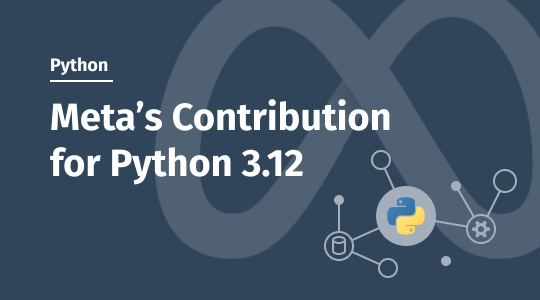
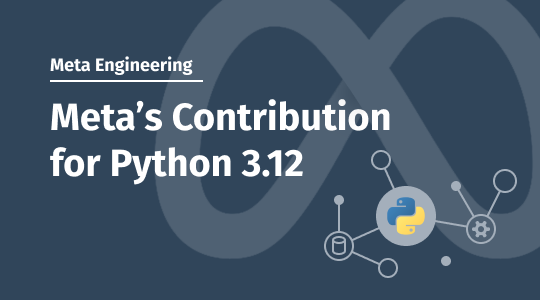
feat: 디자인 변경  - Pretendard 폰트 적용  - Meta Engineering 썸네일 변경

Changed region(s): [[0.0889, 0.18, 0.3556, 0.3]]

diff --git a/_includes/head.html b/_includes/head.html
@@ -19,9 +19,8 @@
 
   <link rel="preconnect" href="https://fonts.googleapis.com">
   <link rel="preconnect" href="https://fonts.gstatic.com" crossorigin>
-  <link href="https://fonts.googleapis.com/css2?family=Noto+Sans+KR:wght@400;800&family=Open+Sans:wght@300;600;800&display=swap" rel="stylesheet">
-  <link href="https://fonts.googleapis.com/css2?family=Lora:ital@1&display=swap" rel="stylesheet">
-  <script src="https://use.fontawesome.com/releases/v5.15.3/js/all.js" crossorigin="anonymous"></script>
+  <link rel="stylesheet" href="https://fonts.googleapis.com/css2?family=Lora:ital@1&display=swap">
+  <link rel="stylesheet" as="style" crossorigin href="https://cdn.jsdelivr.net/gh/orioncactus/pretendard@v1.3.9/dist/web/static/pretendard.min.css" />
 
   <link rel="stylesheet" href="{{"/assets/main.css" | relative_url }}">
   <link rel="canonical" href="{{ page.url | replace:'index.html','' | absolute_url }}">

diff --git a/_includes/scripts.html b/_includes/scripts.html
@@ -1,5 +1,6 @@
 <script src="https://code.jquery.com/jquery-3.5.1.min.js"></script>
 <script src="https://cdn.jsdelivr.net/npm/bootstrap@4.6.0/dist/js/bootstrap.bundle.min.js"></script>
+<script src="https://use.fontawesome.com/releases/v5.15.3/js/all.js" crossorigin="anonymous"></script>
 <script src="{{"/assets/vendor/startbootstrap-clean-blog/js/scripts.js" | relative_url }}"></script>
 
 <script src="{{"/assets/scripts.js" | relative_url }}"></script>

diff --git a/docs/_posts/meta/2023-11-26-meta-dismissing-python-gc.md b/docs/_posts/meta/2023-11-26-meta-dismissing-python-gc.md
@@ -1,7 +1,7 @@
 ---
 layout: post
 title: "[번역] 인스타그램에서 파이썬 GC 비활성화"
-excerpt: 인스타그램은 사용하지 않는 데이터를 메모리 공간에서 다시 회수하는 기능인 파이썬 가비지 컬렉션(GC)을 걷어내고서 약 10%의 효율성 향상을 이끌어냈습니다. GC를 비활성화함으로서 메모리 사용량을 줄이고 CPU LLC 캐시 히트율을 증가시킬 수 있었습니다.
+excerpt: 인스타그램은 사용하지 않는 데이터를 메모리 공간에서 다시 회수하는 기능인 파이썬 가비지 컬렉션(GC)을 걷어내고서 약 10%의 효율성 향상을 끌어냈습니다. 간단히 말해서 GC를 비활성화함으로써 메모리 사용량을 줄이고 CPU LLC 캐시 적중률을 증가시킬 수 있었습니다.
 category: meta engineering
 tags:
   - python
@@ -9,6 +9,10 @@ tags:
   - instagram
 thumbnail: "/img/thumbnails/meta-dismissing-python-gc.png"
 ---
+
+> 해당 포스트는 Instagram Engineering 블로그의 [Dismissing Python Garbage Collection at Instagram](https://medium.com/instagram-engineering/dismissing-python-garbage-collection-at-instagram-4dca40b29172) 포스트를 번역한 글입니다.
+> 
+> 게시일: 2017.01.18
 
 # 인스타그램에서 파이썬 GC 비활성화
 
@@ -226,8 +230,6 @@ CPU 캐시 미스는 CPU 파이프라인을 정지시키기 때문에 매우 치
 언젠가는 성과를 볼 것입니다.
 
 ---
-
-> Source Text
 
 # Dismissing Python Garbage Collection at Instagram
 

diff --git a/docs/_posts/meta/2023-11-27-meta-cow-friendly-python-gc.md b/docs/_posts/meta/2023-11-27-meta-cow-friendly-python-gc.md
@@ -15,6 +15,10 @@ thumbnail: "/img/thumbnails/meta-cow-friendly-python-gc.png"
 두 포스트 모두 문제를 발견하고 여러 가설을 세워 해결하는 과정이 인상적이었습니다.
 파이썬 인터프리터의 기본 구조와 동작 원리에 대한 이해를 돕는 데 좋을 것 같아 두고두고 읽으려고 번역해 두었습니다.
 
+> 해당 포스트는 Instagram Engineering 블로그의 [Copy-on-write friendly Python garbage collection](https://medium.com/instagram-engineering/copy-on-write-friendly-python-garbage-collection-ad6ed5233ddf) 포스트를 번역한 글입니다.
+> 
+> 게시일: 2017.12.21
+
 ---
 
 # Copy-on-write에 친화적인 파이썬 가비지 컬렉션
@@ -124,8 +128,6 @@ COW는 더 이상 발생하지 않았으며 공유 메모리도 안정적으로 
 
 ---
 
-> Source Text
-
 # Copy-on-write friendly Python garbage collection
 
 At Instagram, we have the world’s largest deployment of the Django web framework, which is written entirely in Python.
@@ -233,4 +235,4 @@ The plot below shows how enabling GC helped the memory growth by stopping the li
 
 References
 
-- [Copy-on-write friendly Python garbage collection \| by Instagram Engineering ](https://medium.com/instagram-engineering/copy-on-write-friendly-python-garbage-collection-ad6ed5233ddf)
+- [Copy-on-write friendly Python garbage collection \| by Instagram Engineering](https://medium.com/instagram-engineering/copy-on-write-friendly-python-garbage-collection-ad6ed5233ddf)
